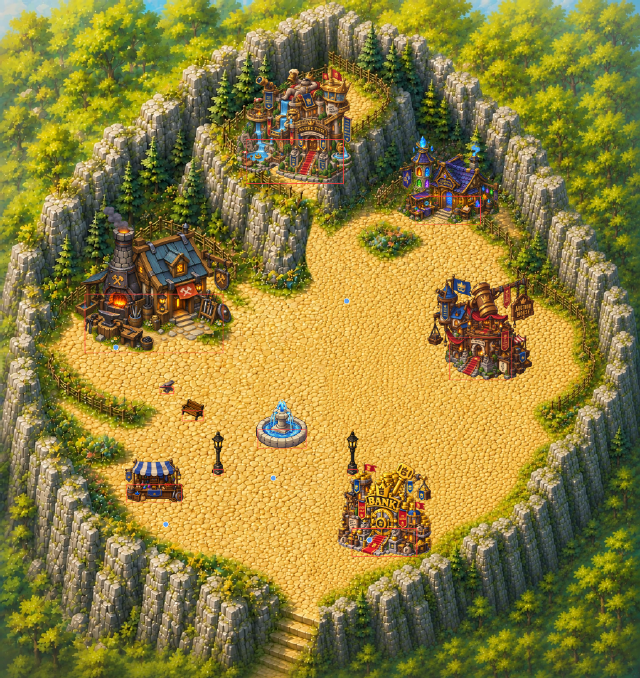
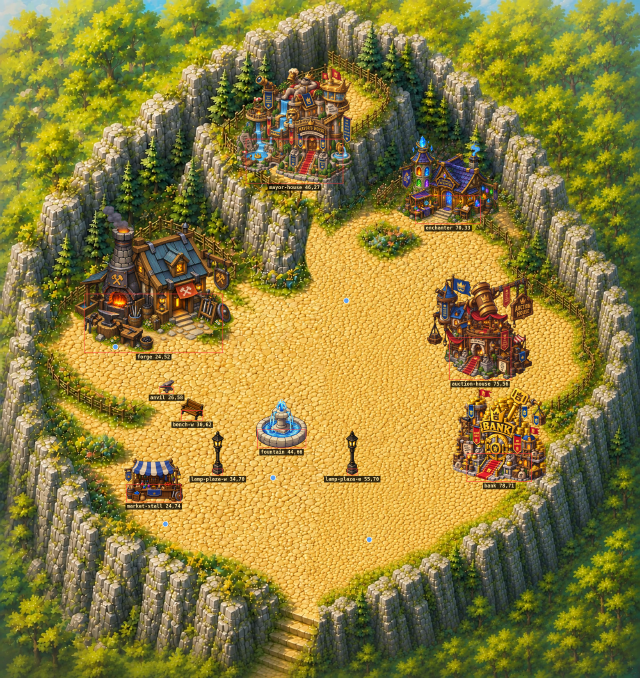
v2.3.2629: Mayor Bro off the rocks, and the bank east of the fountain
Owner: "Mayor bro needs to be moved off the rocks and the bank needs to be
moved further from the exit. Like directly east of the fountain but against
the rocks would be fine."

MAYOR BRO WAS A BUG IN v2.3.2628, NOT A PLACEMENT. His anchor measures 100%
cobble on a 95px disc, and in the game he stood in the cliff face. NPC_DATA
carries a position FOUR times -- x/y, spawnX/spawnY, renderX/renderY and
targetX/targetY -- and the resize scaled only x/y, for all five town NPCs.

He has pathRadius 0, so the wander step steers him to spawnX/spawnY every
frame: he spawned at the new spot and walked back to the old one, which after
the resize is 41%,34%. The cliff.

The file's own v2.3.1813 note describes this trap three lines above the field
that was left stale ("MOVED WITH HIM... leaving this at the old plaza spot
spawned him outside his new house and then walked him back down the stairs").
All 15 fields move with x/y now. Read back from a live game after letting the
wander settle: the two pinned NPCs sit exactly on their anchors, the three
wanderers inside their radii.

THE BANK. 60%,82% -> 78%,71%. Directly east of the fountain, against the east
cliff, and 745px from the exit staircase instead of 280px. It clears the
auction house's ground line by 26px so the two do not overlap, and the spot is
100% cobble under it, 99% on a 95px disc.

Both photographed in a real browser at 390x844. townmap + townbuildings 24/24,
precheck 0 FAIL, npm run build clean.
[…]

diff --git a/src/data/gameDisplay.js b/src/data/gameDisplay.js
@@ -3964,15 +3964,15 @@ export const NPC_DATA = [{
      with the scenery would silently delete onboarding rather than clear the
      map — a different thing from what "keep the buildings and NPCS removed"
      was asking for. */
-  x: 1177, y: 1021,   /* v2.3.2628: moved with town 52x55 -> 68x72 */
+  x: 1177, y: 1021,   /* v2.3.2628: moved with town 52x55 -> 68x72; v2.3.2629 moved the three OTHER copies of this position with it */
   /* v2.3.1794: MOVED WITH HIM.  The wander step steers an NPC toward
      spawnX/spawnY (pathRadius 0 means exactly that point, with no roaming), so
      leaving this at the old plaza spot spawned him outside his new house and
      then walked him back down the stairs over the next few seconds.  Caught by
      mp-townmap reading him at (985.3, 563.7) — the old coordinates, with the
      fractional drift of something mid-walk. */
-  spawnX: 900, spawnY: 780,   /* v2.3.1813: moves WITH x/y above — pathRadius 0 walks him to this exact point every frame, so leaving it behind drags him back to the old plaza */
-  renderX: 900, renderY: 780,   /* v2.3.1813: kept in step with x/y — these are the FIRST-FRAME draw position, and they were stale even against the previous (1055,300), so he popped across the plaza on frame one */
+  spawnX: 1177, spawnY: 1021,   /* v2.3.1813: moves WITH x/y above — pathRadius 0 walks him to this exact point every frame, so leaving it behind drags him back to the old plaza */
+  renderX: 1177, renderY: 1021,   /* v2.3.1813: kept in step with x/y — these are the FIRST-FRAME draw position, and they were stale even against the previous (1055,300), so he popped across the plaza on frame one */
   hp: 100, maxHp: 100,
   /* v2.3.1675 (owner: "remove his health bar he doesn't need one").  He is a
      quest giver in a safe town; a health bar over him reads as "fight this". */
@@ -3981,7 +3981,7 @@ export const NPC_DATA = [{
   respawnAt: 0,
   pathRadius: 0,
   moveTimer: 0,
-  targetX: 900, targetY: 780,   /* v2.3.1813: likewise — the initial wander target, before the first steer overwrites it */
+  targetX: 1177, targetY: 1021,   /* v2.3.1813: likewise — the initial wander target, before the first steer overwrites it */
   chatTimer: 8000,
   chatBubble: null,
   phrases: [
@@ -4084,9 +4084,9 @@ export const NPC_DATA = [{
      closest approach.  His circle still stops at x 1090, short of the bank's
      footprint at 1120, and at tile x 30 he is five tiles clear of the World
      View trail-head, whose reach is two. */
-  x: 1255, y: 1833,   /* v2.3.2628: moved with town 52x55 -> 68x72 */
-  spawnX: 960, spawnY: 1400,
-  renderX: 960, renderY: 1400,
+  x: 1255, y: 1833,   /* v2.3.2628: moved with town 52x55 -> 68x72; v2.3.2629 moved the three OTHER copies of this position with it */
+  spawnX: 1255, spawnY: 1833,
+  renderX: 1255, renderY: 1833,
   hp: 100, maxHp: 100,
   noHp: true,          /* a child in a safe town; a health bar reads as "fight this" */
   alive: true,
@@ -4096,7 +4096,7 @@ export const NPC_DATA = [{
      the disc above was measured over. */
   pathRadius: 130,
   moveTimer: 0,
-  targetX: 960, targetY: 1400,
+  targetX: 1255, targetY: 1833,
   chatTimer: 11000,
   chatBubble: null,
   /* REQUIRED -- the AI loop indexes this unguarded and an empty array throws. */
@@ -4198,9 +4198,9 @@ export const NPC_DATA = [{
      door Diego's `shop` uses (BroTown.jsx) -- and the same latch, so closing
      it while still standing on him does not get one straight back. */
   flip: true,
-  x: 928, y: 1623,   /* v2.3.2628: moved with town 52x55 -> 68x72 */
-  spawnX: 710, spawnY: 1240,
-  renderX: 710, renderY: 1240,
+  x: 928, y: 1623,   /* v2.3.2628: moved with town 52x55 -> 68x72; v2.3.2629 moved the three OTHER copies of this position with it */
+  spawnX: 928, spawnY: 1623,
+  renderX: 928, renderY: 1623,
   hp: 100, maxHp: 100,
   noHp: true,          /* a gambler in a safe town; a health bar reads as "fight this" */
   alive: true,
@@ -4210,7 +4210,7 @@ export const NPC_DATA = [{
      is not wide enough to give him more without crossing one of them. */
   pathRadius: 100,
   moveTimer: 0,
-  targetX: 710, targetY: 1240,
+  targetX: 928, targetY: 1623,
   chatTimer: 9000,
   chatBubble: null,
   /* REQUIRED -- the AI loop indexes this unguarded and an empty array throws. */
@@ -4272,9 +4272,9 @@ export const NPC_DATA = [{
      screen without touching anything, and the drawer covers the inspect
      card's actions (v2.3.2078). From the stall he is 532px away, and with
      the tighter radius below his drawer reaches only 130px. */
-  x: 562, y: 1780,   /* v2.3.2628: moved with town 52x55 -> 68x72 */
-  spawnX: 430, spawnY: 1360,
-  renderX: 430, renderY: 1360,
+  x: 562, y: 1780,   /* v2.3.2628: moved with town 52x55 -> 68x72; v2.3.2629 moved the three OTHER copies of this position with it */
+  spawnX: 562, spawnY: 1780,
+  renderX: 562, renderY: 1780,
   hp: 100, maxHp: 100,
   noHp: true,          /* a shopkeeper in a safe town; a health bar reads as "fight this" */
   alive: true,
@@ -4287,7 +4287,7 @@ export const NPC_DATA = [{
      rather than pacing the square. */
   pathRadius: 40,
   moveTimer: 0,
-  targetX: 430, targetY: 1360,
+  targetX: 562, targetY: 1780,
   chatTimer: 9000,
   chatBubble: null,
   /* REQUIRED -- the AI loop indexes this unguarded and an empty array throws. */
@@ -4366,16 +4366,16 @@ export const NPC_DATA = [{
      drawn in front of it (a higher y paints later), so he reads as standing
      AT it rather than behind it.  pathRadius stays 0 -- he is pinned, so this
      is the whole of his position and there is no wander ring to clear. */
-  x: 392, y: 1178,   /* v2.3.2628: moved with town 52x55 -> 68x72 */
-  spawnX: 300, spawnY: 900,
-  renderX: 300, renderY: 900,
+  x: 392, y: 1178,   /* v2.3.2628: moved with town 52x55 -> 68x72; v2.3.2629 moved the three OTHER copies of this position with it */
+  spawnX: 392, spawnY: 1178,
+  renderX: 392, renderY: 1178,
   hp: 100, maxHp: 100,
   noHp: true,
   alive: true,
   respawnAt: 0,
   pathRadius: 0,
   moveTimer: 0,
-  targetX: 300, targetY: 900,
+  targetX: 392, targetY: 1178,
   chatTimer: 11000,
   chatBubble: null,
   phrases: [

diff --git a/src/data/worldProps.js b/src/data/worldProps.js
@@ -36,7 +36,7 @@ export const WORLD_PROPS = [
        enchanter    70%, 33%   the north-east shelf, inside its fence
        forge        24%, 52%   west, clear of the cliff by ~60px of cobble
        auction-house 75%, 56%  east, facing the plaza across it
-       bank         60%, 82%   south, in what used to be empty ground
+       bank         78%, 71%   east, against the rocks, off the exit path
        fountain     44%, 66%   the middle, which is now a middle
 
      Percentages of the map, because that is what the layout renderer prints
@@ -393,7 +393,7 @@ export const WORLD_PROPS = [
      stall, and the north is the mayor's terrace. */
   {
     id: 'bank', zone: 'town', mapV: 17, sprite: '/sprites/props/bank.png',
-    x: 1306, y: 1889, worldH: 320, blockW: 220, blockD: 95,
+    x: 1697, y: 1636, worldH: 320, blockW: 220, blockD: 95,
     action: 'bank', label: 'BANK',
   },
   {

diff --git a/docs/triage-2026-09-18/town-extent.md b/docs/triage-2026-09-18/town-extent.md
@@ -66,7 +66,7 @@ open, and the owner's new art on three of them.
 | enchanter | 70%, 33% | the north-east shelf, inside its fence |
 | forge | 24%, 52% | west, clear of the cliff by ~60px of cobble |
 | auction-house | 75%, 56% | east, facing the plaza across it |
-| bank | 60%, 82% | south, in what used to be empty ground |
+| bank | 78%, 71% | east of the fountain, against the rocks, off the exit path |
 | fountain | 44%, 66% | the middle, which is now a middle |
 
 **Prop sizes are unchanged.** A building is worth the same number of world px it
@@ -118,3 +118,46 @@ a resize in ways that did not mention a resize:
 - `townmap` **12/12**, `townbuildings` **12/12**, `marketonly` **68/68**, `store` **28/28** — real worker, real browser
 - `precheck` 0 FAIL, `npm run build` clean
 - `movespeed` and `arrowshot` each fail one assertion — **reproduced identically on `main`** in a clean worktree, so pre-existing and not this change
+
+
+## Follow-up: Mayor Bro in the cliff, and the bank on the exit path (v2.3.2629)
+
+> "Mayor bro needs to be moved off the rocks and the bank needs to be moved
+> further from the exit. Like directly east of the fountain but against the
+> rocks would be fine."
+
+### Mayor Bro was a bug in the resize, not a placement
+
+His anchor measured **100% cobble** on a 95px disc, so the data said he was
+fine — and in the game he was standing in the rock face. The reason is that
+`NPC_DATA` carries the position **four times**: `x/y`, `spawnX/spawnY`,
+`renderX/renderY` and `targetX/targetY`. v2.3.2628 scaled `x/y` for the bigger
+town and left the other three at their pre-resize values, for all five town
+NPCs.
+
+Mayor Bro has `pathRadius: 0`, which means the wander step steers him to
+`spawnX/spawnY` **every frame** — so he spawned at his new spot and then walked
+back to the old one, which after the resize is 41%, 34%: the cliff.
+
+The file's own v2.3.1813 comment describes this exact trap, three lines above
+the field that was left stale:
+
+> *"MOVED WITH HIM. The wander step steers an NPC toward spawnX/spawnY
+> (pathRadius 0 means exactly that point, with no roaming), so leaving this at
+> the old plaza spot spawned him outside his new house and then walked him back
+> down the stairs."*
+
+All 15 fields now move with `x/y`. Read back from a live game after letting the
+wander settle, the two pinned NPCs sit exactly on their anchors and the three
+wanderers are inside their radii.
+
+![mayor on cobble](assets/town-mayor-on-cobble.png)
+
+### The bank
+
+60%, 82% → **78%, 71%**. Directly east of the fountain (44%, 66%), against the
+east cliff, and **745px from the exit staircase** instead of 280px. It clears
+the auction house's ground line by 26px, so the two don't overlap, and the spot
+is 100% cobble under it with 99% on a 95px disc.
+
+![bank east](assets/town-bank-east.png)
